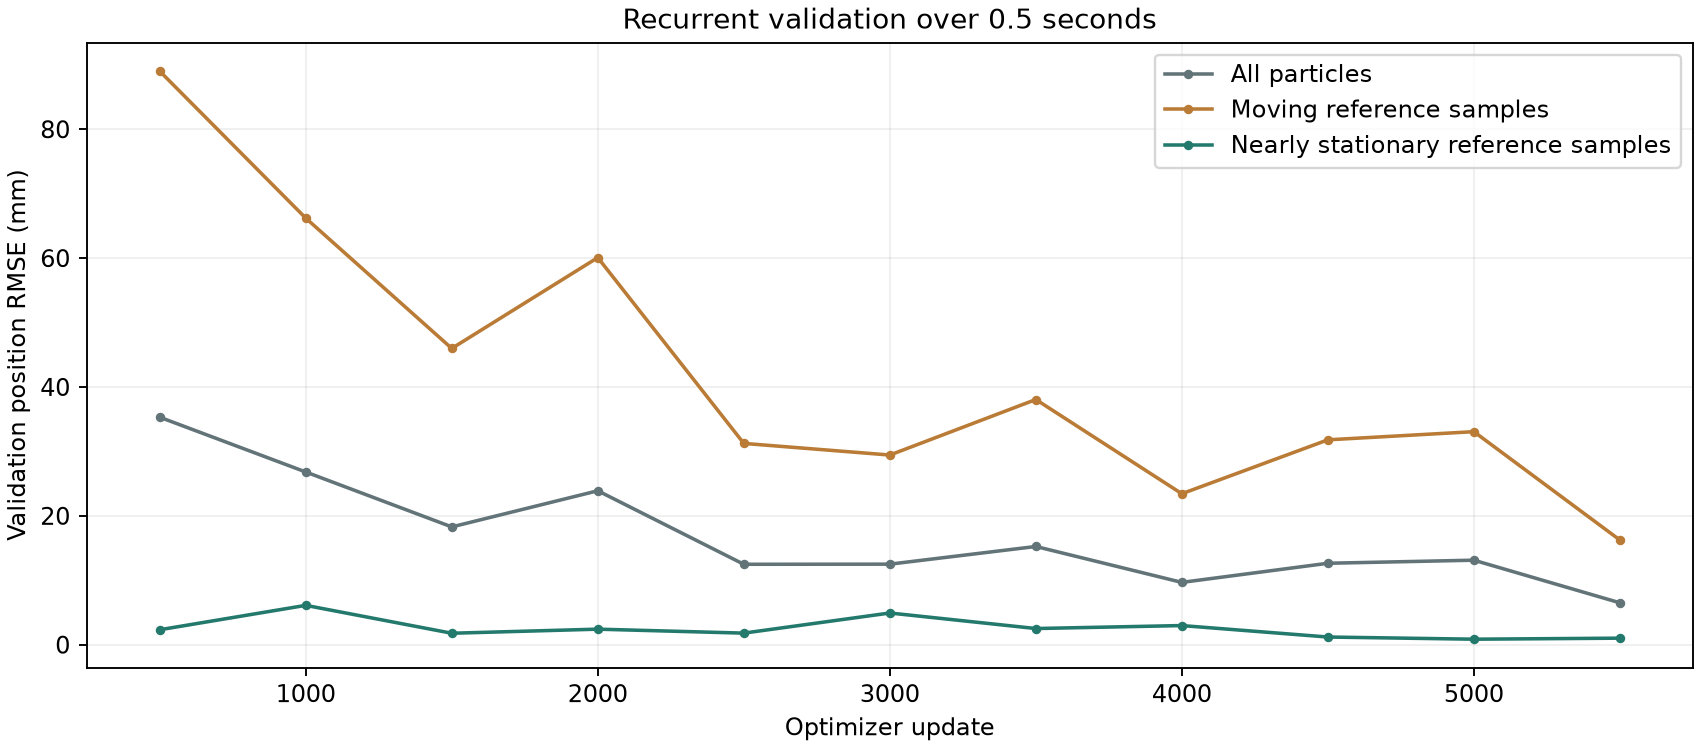
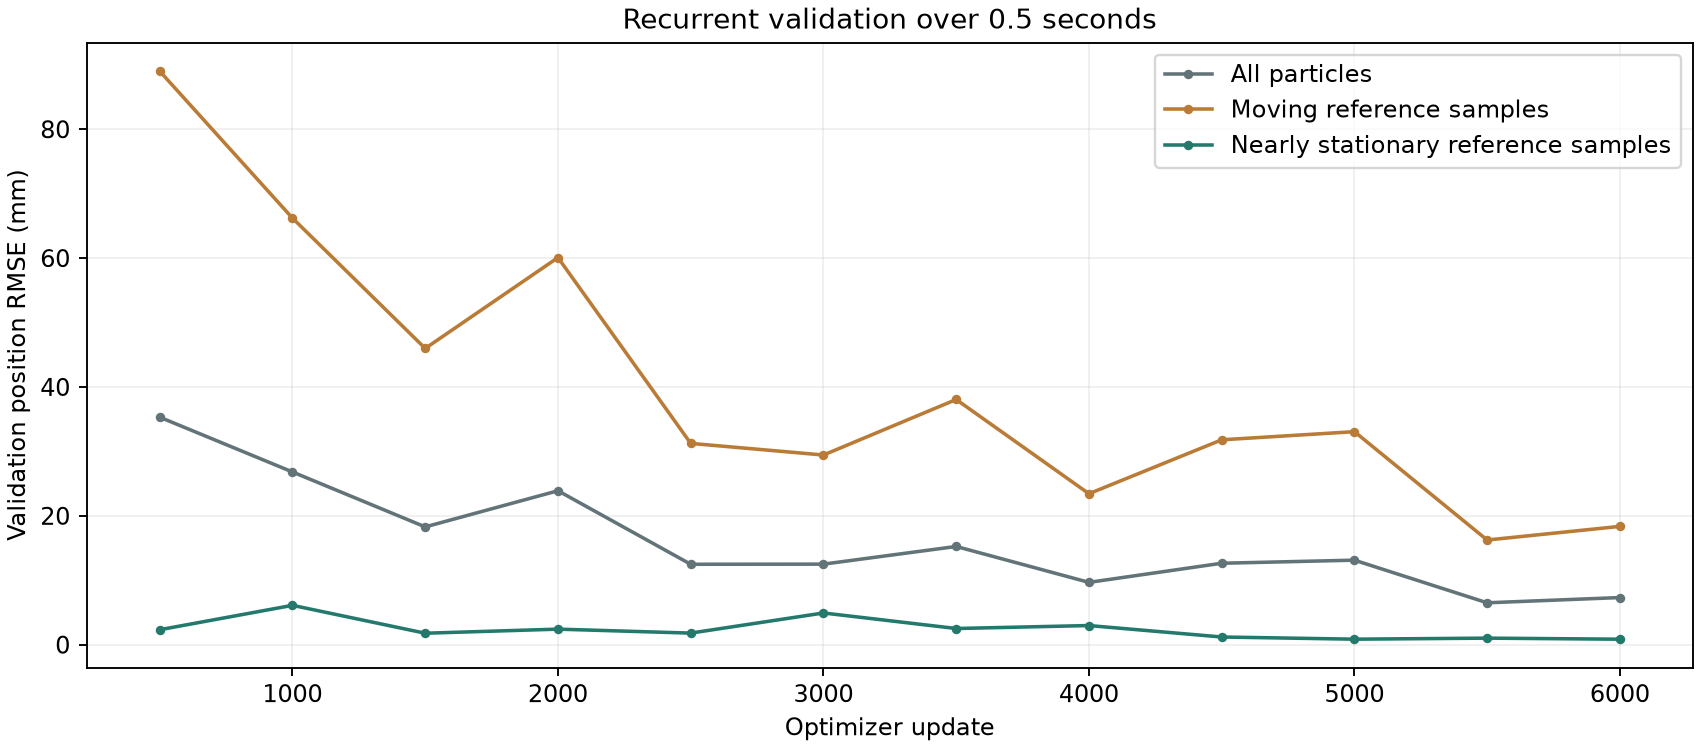
Update long-horizon Transolver progress (RUNNING)

diff --git a/transolver_long_horizon.html b/transolver_long_horizon.html
@@ -4,7 +4,7 @@
 <nav><a href="index.html">Methodology</a><a href="transolver.html">Transolver baseline</a><a href="gnn-v2.html">GNN v2</a></nav>
 <p class="tag">PARTICLE MOTION / RECURRENT TRAINING</p><h1>Transolver: 0.5-second training horizon</h1>
 <p class="lead">Reduce unwanted motion of settled material while retaining particle motion caused by the rigid box.</p>
-<div class="status"><strong>RUNNING</strong><p>Latest saved validation: update 5,500 / 10,000.</p><p><a href="https://us-west-2-aws.osmo.nvidia.com/workflows/particle-transolver-long-1">OSMO workflow</a> · <a href="https://dashboards.telemetry.dgxc.ngc.nvidia.com/d/workflow_resources/workflow-resources-v2?orgId=46&amp;var-datasource=ae6qyv87oh0cgd&amp;var-cluster=osmogroot-dgxc-k8s-forge-az41-prd1&amp;var-namespace=osmo-prod&amp;var-uuid=04e190c7cffc40b2&amp;from=now-1h&amp;to=now">GPU resource usage</a> · <a href="https://ovx-l40s-03.osmo.nvidia.com/dashboard/#/search?namespace=osmo-prod&amp;q=04e190c7cffc40b2">Task dashboard</a></p><p class="small">Updated 2026-10-20 04:31 UTC. Refresh this page for new checkpoint measurements.</p></div>
+<div class="status"><strong>RUNNING</strong><p>Latest saved validation: update 6,000 / 10,000.</p><p><a href="https://us-west-2-aws.osmo.nvidia.com/workflows/particle-transolver-long-1">OSMO workflow</a> · <a href="https://dashboards.telemetry.dgxc.ngc.nvidia.com/d/workflow_resources/workflow-resources-v2?orgId=46&amp;var-datasource=ae6qyv87oh0cgd&amp;var-cluster=osmogroot-dgxc-k8s-forge-az41-prd1&amp;var-namespace=osmo-prod&amp;var-uuid=04e190c7cffc40b2&amp;from=now-1h&amp;to=now">GPU resource usage</a> · <a href="https://ovx-l40s-03.osmo.nvidia.com/dashboard/#/search?namespace=osmo-prod&amp;q=04e190c7cffc40b2">Task dashboard</a></p><p class="small">Updated 2026-10-20 04:38 UTC. Refresh this page for new checkpoint measurements.</p></div>
 <h2>01 / Experiment</h2><table><tr><th>Setting</th><th>Baseline</th><th>New experiment</th></tr>
 <tr><td>Recurrent training horizon</td><td>4 steps / 0.08 s</td><td>25 steps / 0.5 s</td></tr>
 <tr><td>Loss</td><td>Moving samples weighted 5×; other samples 1×</td><td>Separate group means, equal weight</td></tr>
@@ -29,7 +29,7 @@ Backpropagate through the full sequence; no history reset or detached steps.</pr
 dt = 0.02 s</pre>
 <p>Both groups retain their reference position targets. Nearly stationary does not impose exactly zero motion. If a sequence contains only one group, that group receives the full loss. The grouping is based only on reference motion and does not freeze predicted particles.</p>
 <p>Each GPU trains on one sequence per update. Group normalization is applied within each sequence, then distributed training averages gradients. Recorded rigid-box pose and velocity are inputs at every step. Validation uses 32 fixed sequences at the same 25-step horizon. Checkpoint selection uses the square root of the average of the two pooled group mean squared position errors.</p>
-<h2>03 / Training progress</h2><table><tr><th>Validation measure at 25 steps</th><th>Latest value</th></tr><tr><td>All particle-time samples</td><td>6.494 mm</td></tr><tr><td>Moving reference samples</td><td>16.237 mm</td></tr><tr><td>Nearly stationary reference samples</td><td>1.008 mm</td></tr><tr><td>Balanced checkpoint-selection score</td><td>11.503 mm</td></tr></table><p class="small">Peak allocated PyTorch GPU memory on rank 0: 2.30 GiB. This excludes other processes and allocations outside PyTorch.</p><img src="assets/transolver-long-horizon/training.png" alt="Validation position errors over training updates">
+<h2>03 / Training progress</h2><table><tr><th>Validation measure at 25 steps</th><th>Latest value</th></tr><tr><td>All particle-time samples</td><td>7.309 mm</td></tr><tr><td>Moving reference samples</td><td>18.357 mm</td></tr><tr><td>Nearly stationary reference samples</td><td>0.844 mm</td></tr><tr><td>Balanced checkpoint-selection score</td><td>12.994 mm</td></tr></table><p class="small">Peak allocated PyTorch GPU memory on rank 0: 2.30 GiB. This excludes other processes and allocations outside PyTorch.</p><img src="assets/transolver-long-horizon/training.png" alt="Validation position errors over training updates">
 <p class="small">Do not compare these 25-step validation errors directly with the baseline's four-step validation error. Compare both models at the same evaluation horizon.</p>
 <h2>04 / Matched five-second evaluation</h2><p>Pending. Evaluate the selected checkpoint on the same twelve five-second trajectories as the baseline. Particle predictions are recurrent; recorded box pose and velocity are supplied at each step.</p>
 <h2 id="videos">05 / Prediction videos</h2><p>Scheduled after training: five-second Newton RTX comparisons for continuous dragging and pushing. Video rendering runs locally after the cloud evaluation finishes.</p><p class="small">Left: MPM reference particles. Right: recurrent Transolver particles from the selected long-horizon checkpoint. Both views replay the same recorded box motion. Particle predictions are not reset to MPM. Brown particles, gray box, lighting, camera, and display radius match the baseline videos. This is particle prediction, not force-estimator-driven box motion.</p>
